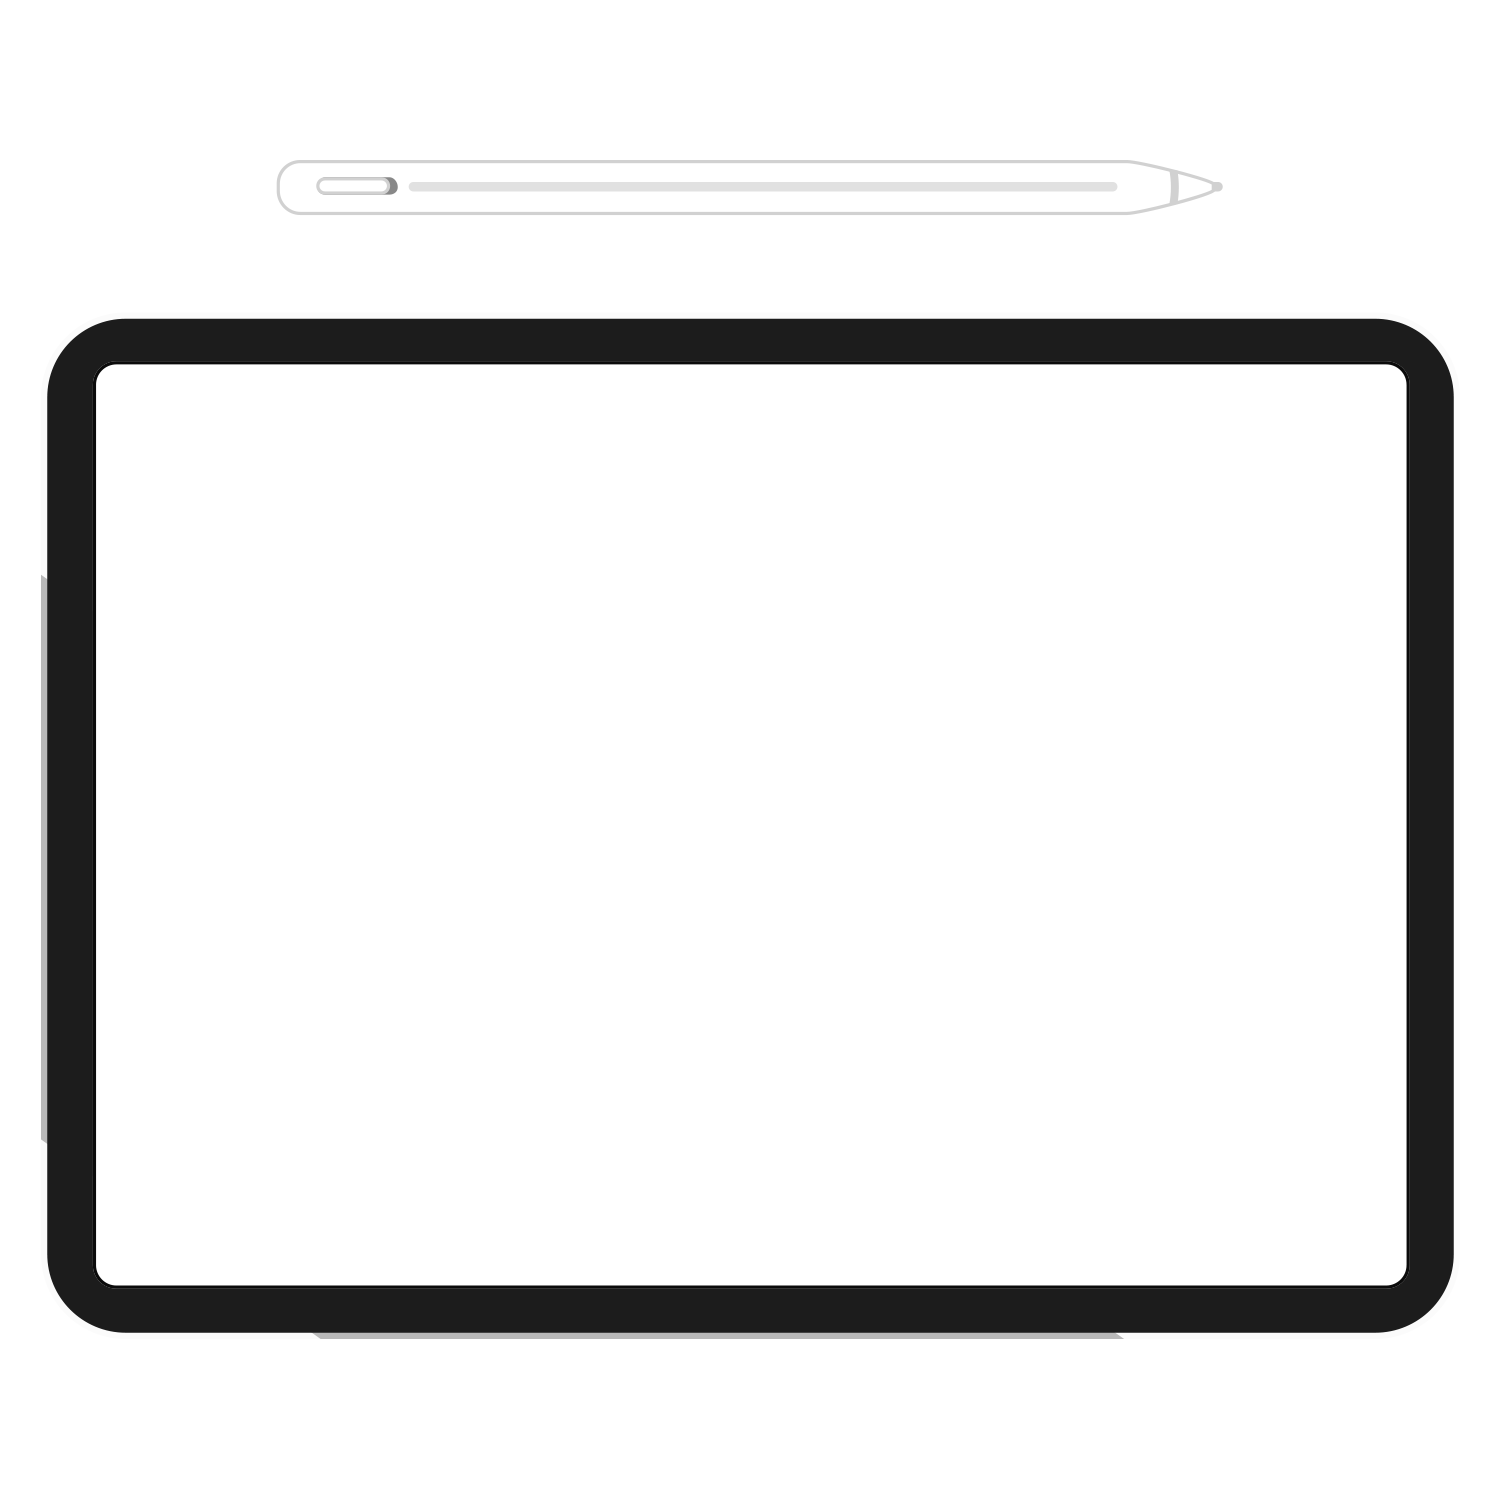
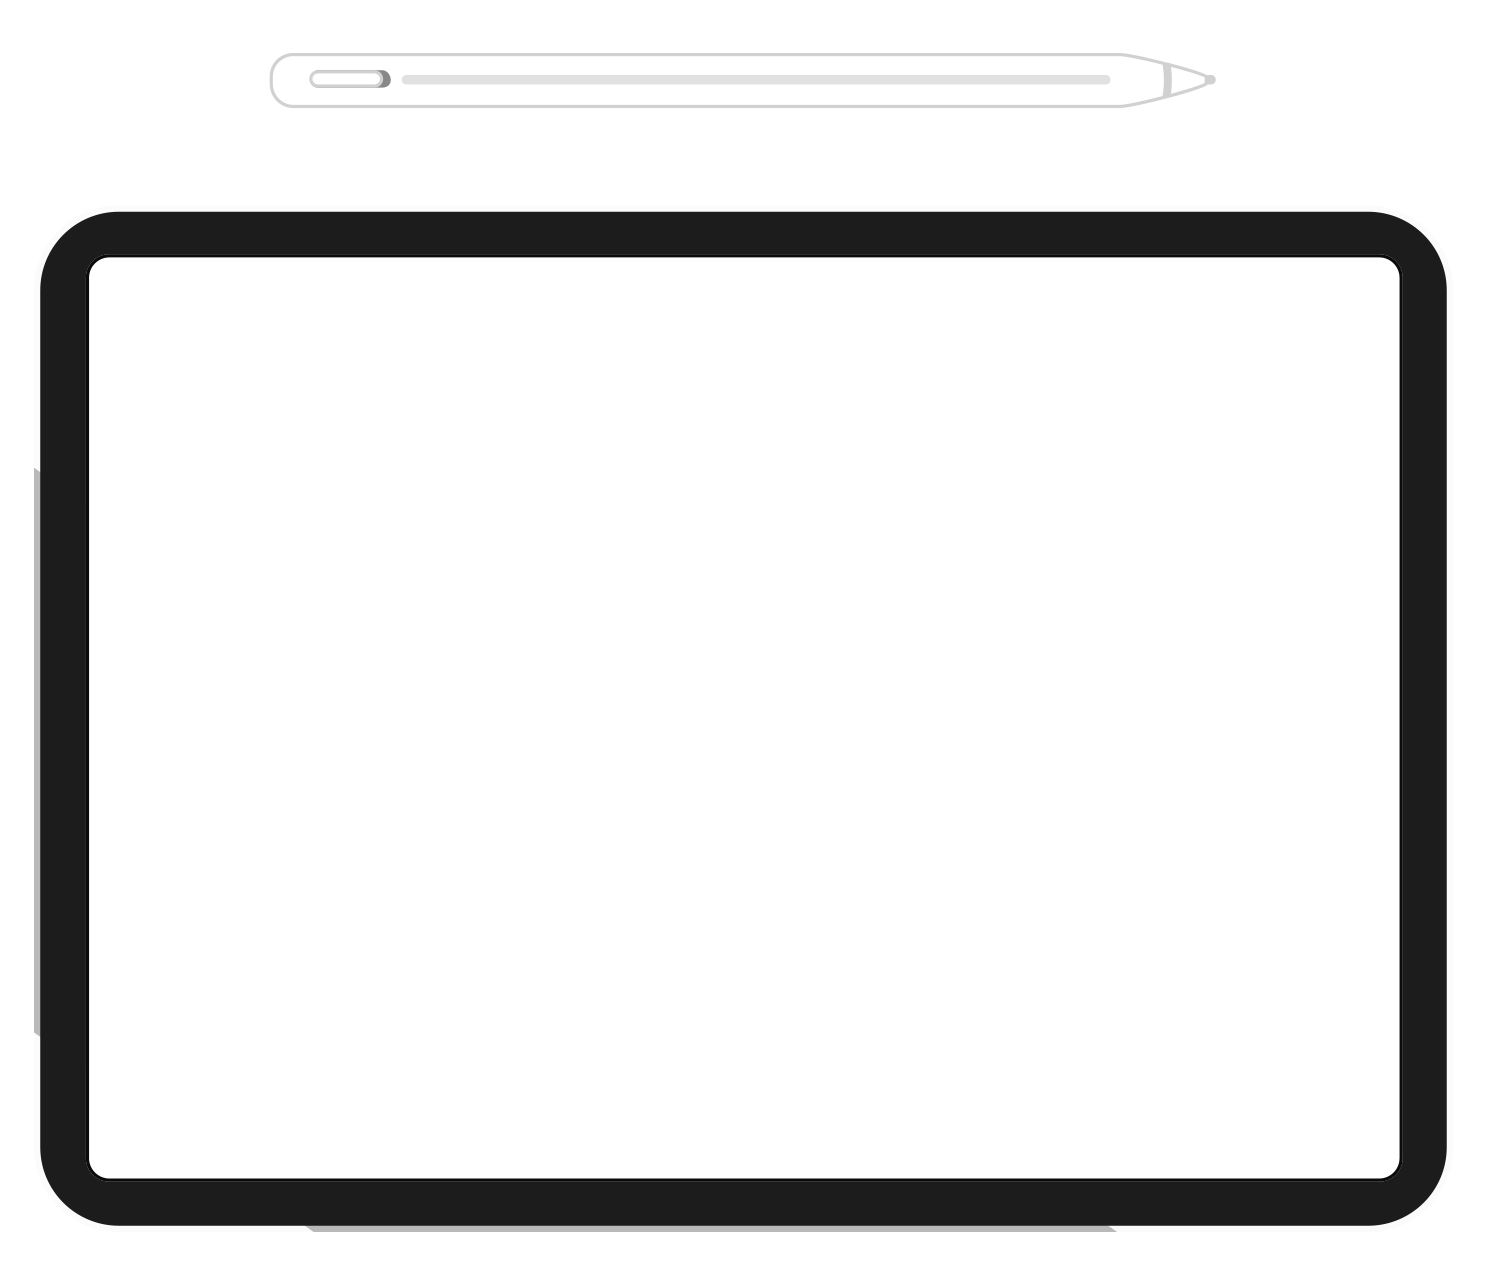
should not break anymore

Changed region(s): [[0.0, 0.0309, 0.9859, 0.9889]]

diff --git a/app/assets/stylesheets/components/_grocery-list-item.scss b/app/assets/stylesheets/components/_grocery-list-item.scss
@@ -29,12 +29,13 @@
   justify-content: center;
   top: 0px;
   z-index: -1;
-  height: 610px;
+  height: 500px;
   padding: 0;
   margin: 0;
   background-image: image-url('ipadnofinger.png');
-   background-size: cover;
+   background-size: contain;
   background-position: center center;
+  background-repeat: no-repeat;
 }
 
 .ipad-contents > form {
